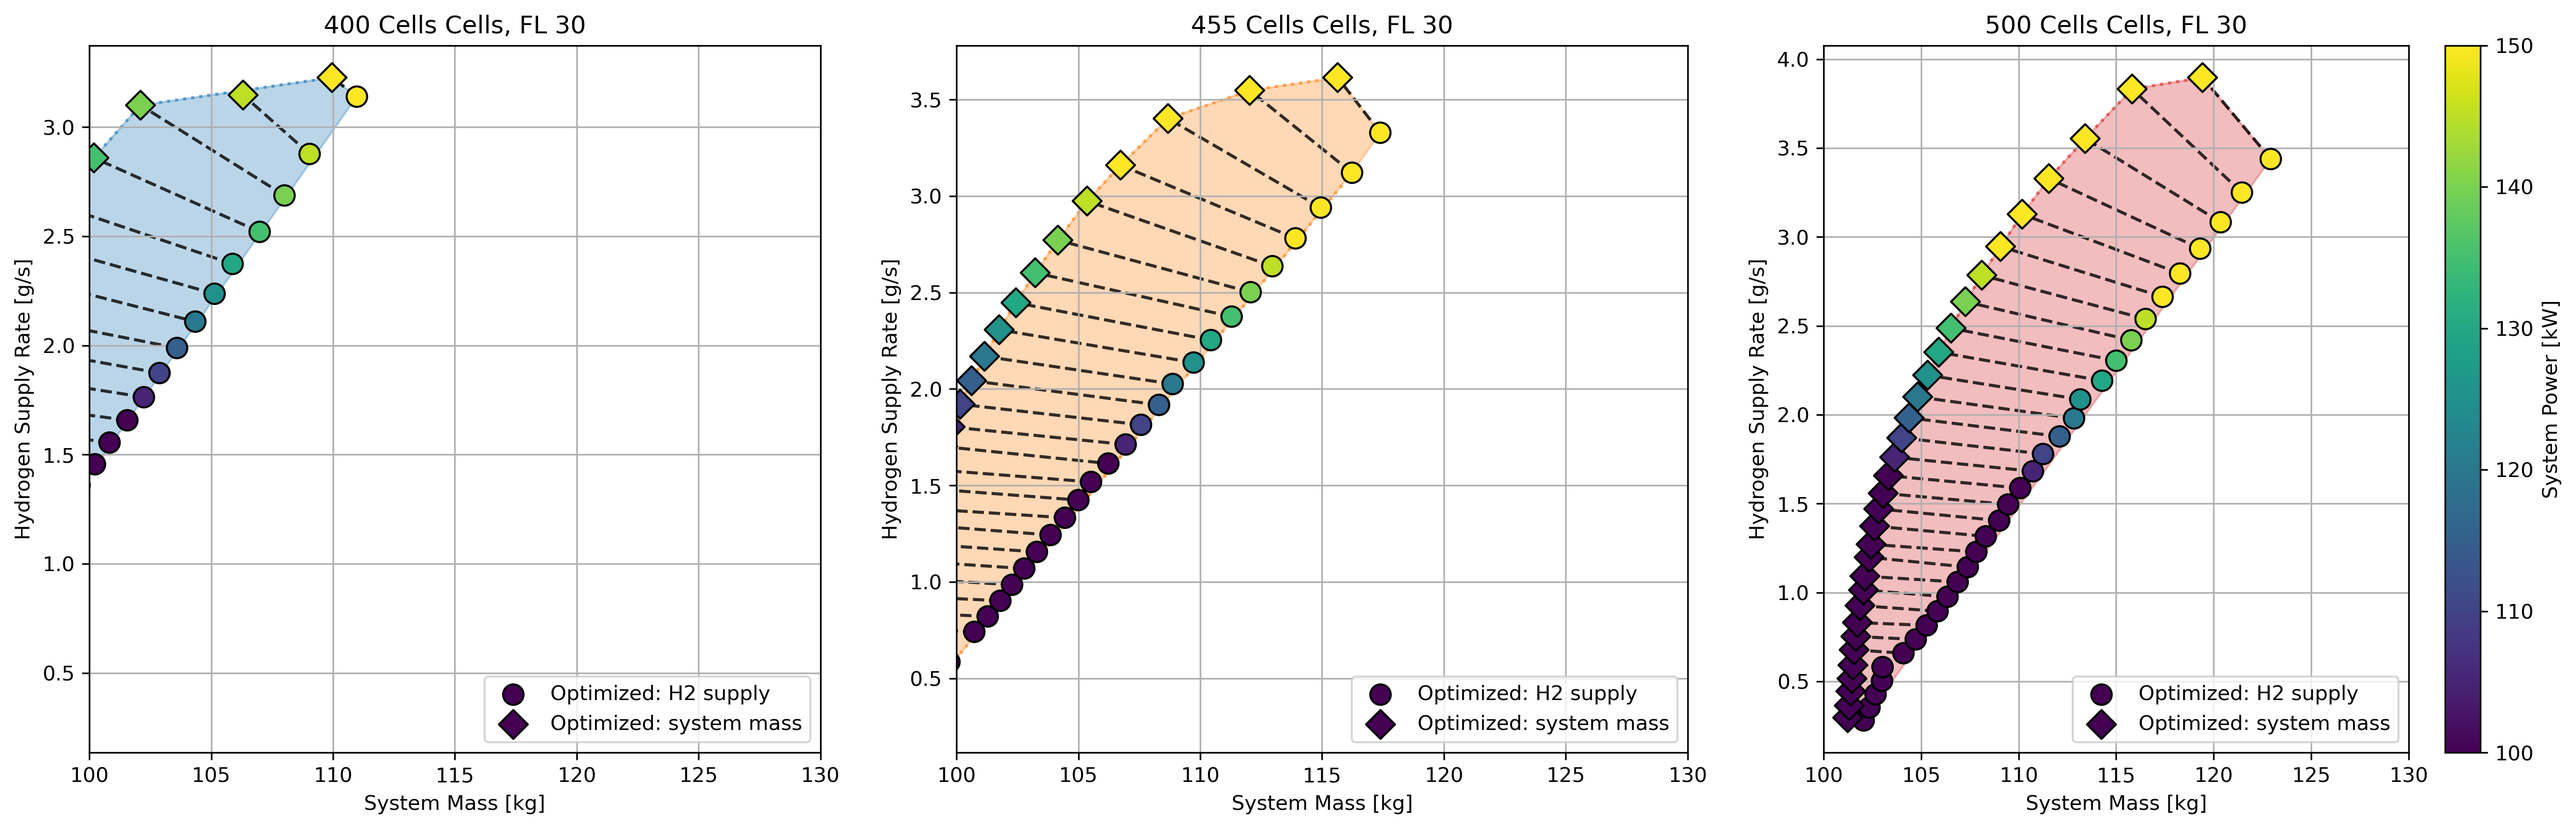
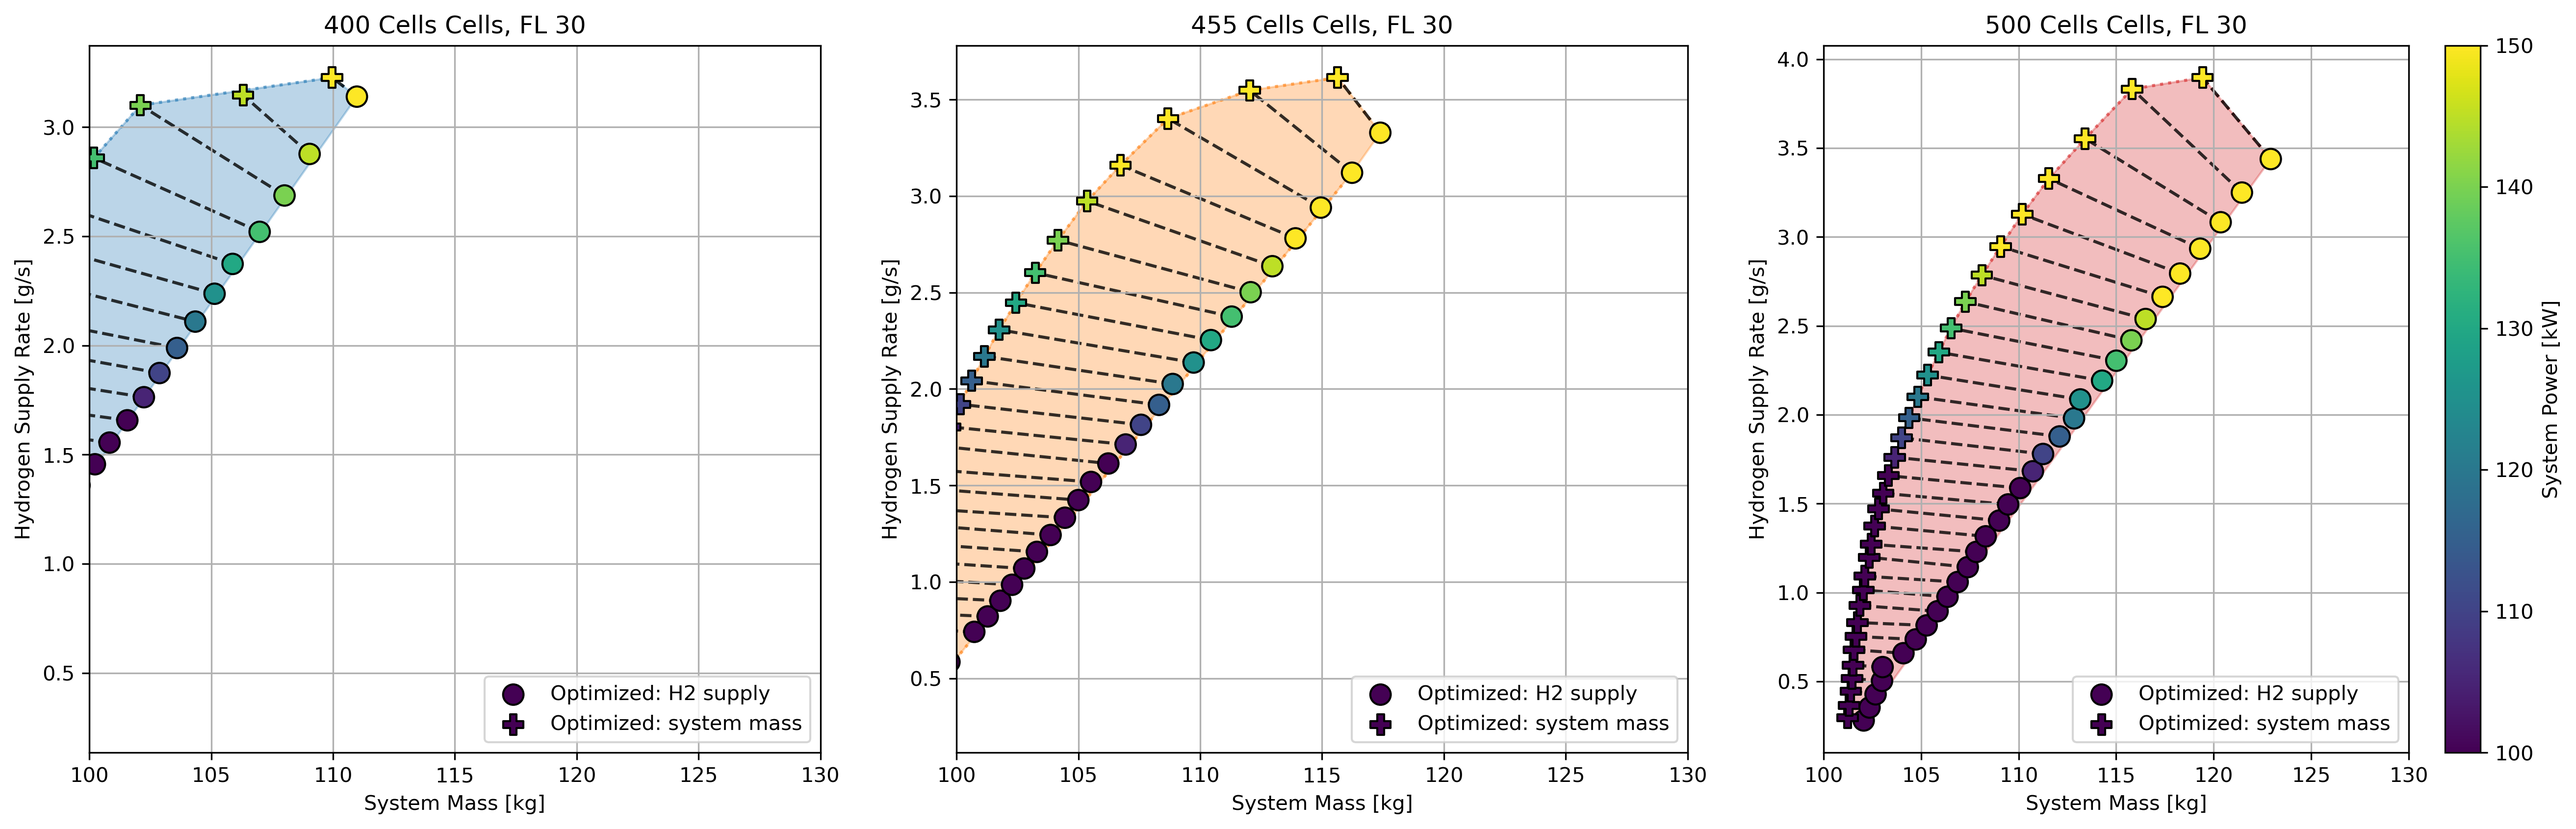
commit for change branch

diff --git a/05_overall/05_fcs_dimensioning_model/Postprocessing/get_plots.py b/05_overall/05_fcs_dimensioning_model/Postprocessing/get_plots.py
@@ -151,7 +151,7 @@ def analyze_data(_file_path1, saving=True):
     'vmin' : 120, 
     'vmax' : 150
     }
-    #plot_polarization_curves(plot_params_polarization_curves, data, titles, fl_set, markers_oL, weighting, show_plot=show_plot, saving=saving)
+    plot_polarization_curves(plot_params_polarization_curves, params_general, show_plot=params_general['show_plot'], saving=saving)
     
     ############PLOT: Polcurves eol vs bol connected
     plot_params_polarization_curves_bol_eol = {
@@ -161,7 +161,7 @@ def analyze_data(_file_path1, saving=True):
     'y_label': 'Cell Voltage [V]',
     'y_lim': [0, 1.25],  
     }
-    #plot_polarization_curves_bol_eol(plot_params_polarization_curves_bol_eol, df1, titles, colors, fl_set, markers_oL, weighting, show_plot=show_plot, saving=saving)
+    #plot_polarization_curves_bol_eol(plot_params_polarization_curves_bol_eol, df1, titles, colors, fl_set, markers_oL, weighting, show_plot=params_general['show_plot'], saving=saving)
     
     ############PLOT: System Power Grid Plot
 
@@ -181,7 +181,7 @@ def analyze_data(_file_path1, saving=True):
                   "Coolant Pump Power (kW)",	
                   "Stack Power (kW)"]
     }      
-    #plot_power_needs(plot_params_power_needs, data, titles, fl_set, weighting, show_plot=show_plot, saving=saving)
+    #plot_power_needs(plot_params_power_needs, data, titles, fl_set, weighting, show_plot=params_general['show_plot'], saving=saving)
     
     ############PLOT: System Power Grid Plot Heat Flux
 
@@ -198,7 +198,7 @@ def analyze_data(_file_path1, saving=True):
                   "Evaporator Heat Flux (kW)",	
                   "Radiator Heat Flux (kW)"]
     }
-    #plot_power_needs_heatflux(plot_params_power_needs_heatflux, data, titles, fl_set, weighting, show_plot=show_plot, saving=saving)    
+    #plot_power_needs_heatflux(plot_params_power_needs_heatflux, data, titles, fl_set, weighting, show_plot=params_general['show_plot'], saving=saving)    
    
 
     ###########PLOT: H2 supply
@@ -209,7 +209,7 @@ def analyze_data(_file_path1, saving=True):
     'y_label': 'Hydrogen Supply Rate [g/s]',
     'y_lim': None,  
     }
-    #plot_h2_supply_vs_systempower(plot_params_supply_vs_systempower, data, titles, colors, fl_set, markers_oL, weighting, show_plot=show_plot, saving=saving)
+    #plot_h2_supply_vs_systempower(plot_params_supply_vs_systempower, data, titles, colors, fl_set, markers_oL, weighting, show_plot=params_general['show_plot'], saving=saving)
     
     ###########PLOT: System eff vs Net Power: Flade Plot, 
     plot_params_system_efficiency = {
@@ -219,7 +219,7 @@ def analyze_data(_file_path1, saving=True):
     'y_label': 'System Efficiency [-]',
     'y_lim': None,  
     }
-    #plot_system_efficiency(plot_params_system_efficiency, data, titles, colors, fl_set, markers_oL, weighting, show_plot=show_plot, saving=saving)
+    #plot_system_efficiency(plot_params_system_efficiency, data, titles, colors, fl_set, markers_oL, weighting, show_plot=params_general['show_plot'], saving=saving)
     
     #############PLOT: H2 supply vs Flightlevel:
     
@@ -232,7 +232,7 @@ def analyze_data(_file_path1, saving=True):
         'vmin' : 125, 
         'vmax' : 175, 
     }
-    #plot_h2_supply_vs_FL(plot_params_supply_vs_FL, df1, markers, fl_max, weighting, cellcounts, show_plot=show_plot, saving=saving, mode="bol")
+    #plot_h2_supply_vs_FL(plot_params_supply_vs_FL, df1, markers, fl_max, weighting, cellcounts, show_plot=params_general['show_plot'], saving=saving, mode="bol")
     #plot_h2_supply_vs_FL(plot_params_supply_vs_FL, df1, markers, fl_max, weighting, cellcounts, show_plot=show_plot, saving=saving, mode="eol")
 
     ############Plot Weight estimate
@@ -250,7 +250,7 @@ def analyze_data(_file_path1, saving=True):
     
     # New grouped, stacked bar chart function
     ## NOCHMAL ANSCHAUEN
-    #plot_system_mass_estimate(plot_params_system_mass_estimate, data, titles, colors, componentsP_dict, fl_set, markers, weighting, show_plot=show_plot, saving=saving, mode="bol")
+    #plot_system_mass_estimate(plot_params_system_mass_estimate, data, titles, colors, componentsP_dict, fl_set, markers, weighting, show_plot=params_general['show_plot'], saving=saving, mode="bol")
     #plot_system_mass_estimate(plot_params_system_mass_estimate, data, titles, colors, componentsP_dict, fl_set, markers, weighting, show_plot=show_plot, saving=saving, mode="eol")
     
     ###########PLOT: Compressormap
@@ -264,7 +264,7 @@ def analyze_data(_file_path1, saving=True):
         'vmax' : 175, 
 
     }
-    #plot_compressor_map(plot_params_compressor_map, data, titles, colors, markers, fl_set, weighting, show_plot=show_plot, saving=saving, mode="bol")
+    #plot_compressor_map(plot_params_compressor_map, data, titles, colors, markers, fl_set, weighting, show_plot=params_general['show_plot'], saving=saving, mode="bol")
     #plot_compressor_map(plot_params_compressor_map, data, titles, colors, markers, weighting, show_plot=show_plot, saving=saving, mode="eol")
         
     ###########PLOT: optimized parameters in DoE envelope
@@ -301,7 +301,7 @@ def analyze_data(_file_path1, saving=True):
     for i, (plot_optimized_params['opt_parameters'], plot_optimized_params['yranges']) in enumerate(zip(plot_optimized_params['opt_parameters'],plot_optimized_params['yranges'])):
         #We will plot current df.iloc[0] with the last column df.iloc[-1], therefore we pass columns 0:n
         doe_data_column = Optimized_DoE_data_variables.iloc[:,0:i+2] 
-        #plot_optimized_parameters(plot_optimized_params, data, doe_data_column, titles, fl_set, markers_oL, weighting, show_plot=show_plot, saving=saving)
+        #plot_optimized_parameters(plot_optimized_params, data, doe_data_column, titles, fl_set, markers_oL, weighting, show_plot=params_general['show_plot'], saving=saving)
 
     # go back to the parent directory
     os.chdir("../")

diff --git a/05_overall/05_fcs_dimensioning_model/Postprocessing/plot_h2_vs_mass.py b/05_overall/05_fcs_dimensioning_model/Postprocessing/plot_h2_vs_mass.py
@@ -26,18 +26,15 @@ def plot_h2_vs_mass(plot_params, params_general, show_plot, saving=True):
 
     data = params_general['data']
     fl_set = params_general['fl']
-    cellcounts = params_general['cellcounts']
-    weightings = params_general['weightings']  # Only plot weightings 0 and 1
+    weightings = params_general['weightings'] 
     titles = params_general['titles']
 
-    markers = ['o', 'D'] # Circle for weighting 0, Diamond for weighting 1
-
+    markers = params_general['markers_oL']
     colors = params_general['colors']
-
-
     num_plots = len(data)  # Determine the number of required subplots
+
     for fl in fl_set:
-        if num_plots == 0:
+        if not num_plots:
             print("No non-empty datasets available for plotting.")
             return
 
@@ -57,7 +54,7 @@ def plot_h2_vs_mass(plot_params, params_general, show_plot, saving=True):
             norm, cmap = create_colormap(plot_params['vmin'], plot_params['vmax'], cmap='viridis')
 
             if df_filtered.empty:
-                print(f"No data available for H2_Supply_Comparison {title} at FL {fl}. Skipping subplot.")
+                print(f"No data available for H2_Supply_Comparison {title} at FL {fl} and {'eol' if eol else 'bol'}. Skipping subplot.")
                 continue  # Skip plotting if no data exists
 
             all_points_x = []

diff --git a/05_overall/05_fcs_dimensioning_model/Postprocessing/plot_pol_curves.py b/05_overall/05_fcs_dimensioning_model/Postprocessing/plot_pol_curves.py
@@ -19,7 +19,14 @@ def plot_polarization_curves(plot_params, data, titles, fl_set, markers_oL, weig
     - titles: List of strings, corresponding to the titles for each dataset.
     - saving: Boolean, if True, saves the plots as PNG files.
     """
+    """ data = params_general['data']
+    fl_set = params_general['fl']
+    weightings = params_general['weightings'] 
+    titles = params_general['titles']
 
+    markers = params_general['markers_oL']
+    colors = params_general['colors']
+    """
     for df, title in zip(data, titles):
         # Filter data for the specified flight level
         df = filter_data_by_f1_and_weight(df, fl_set, weighting)
